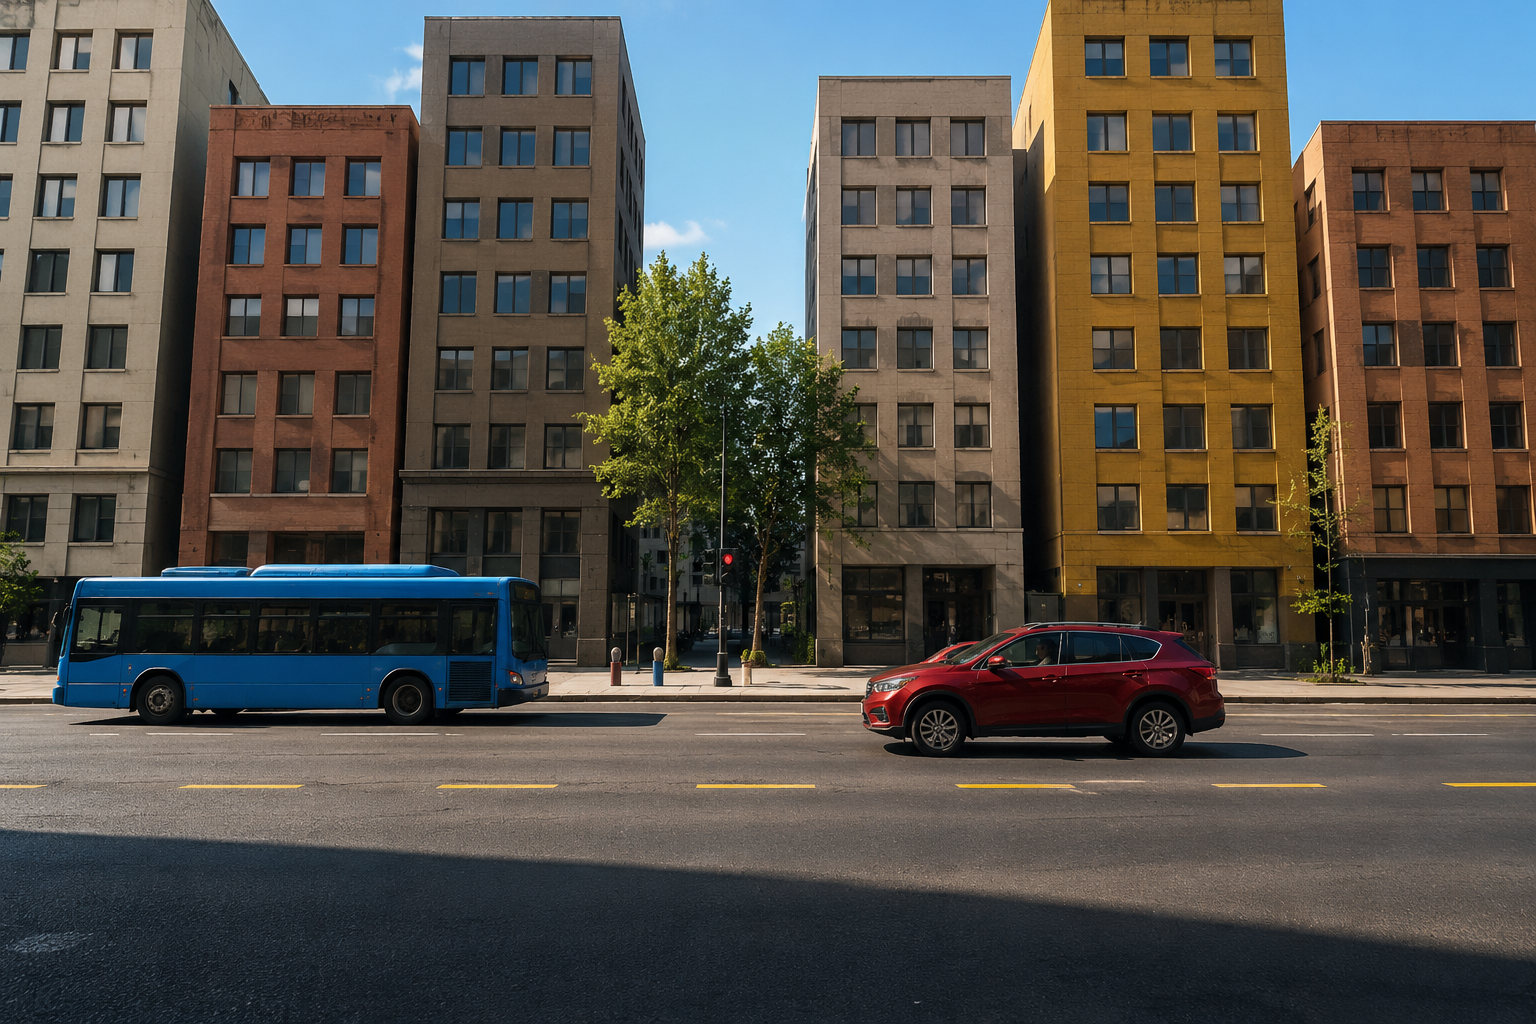
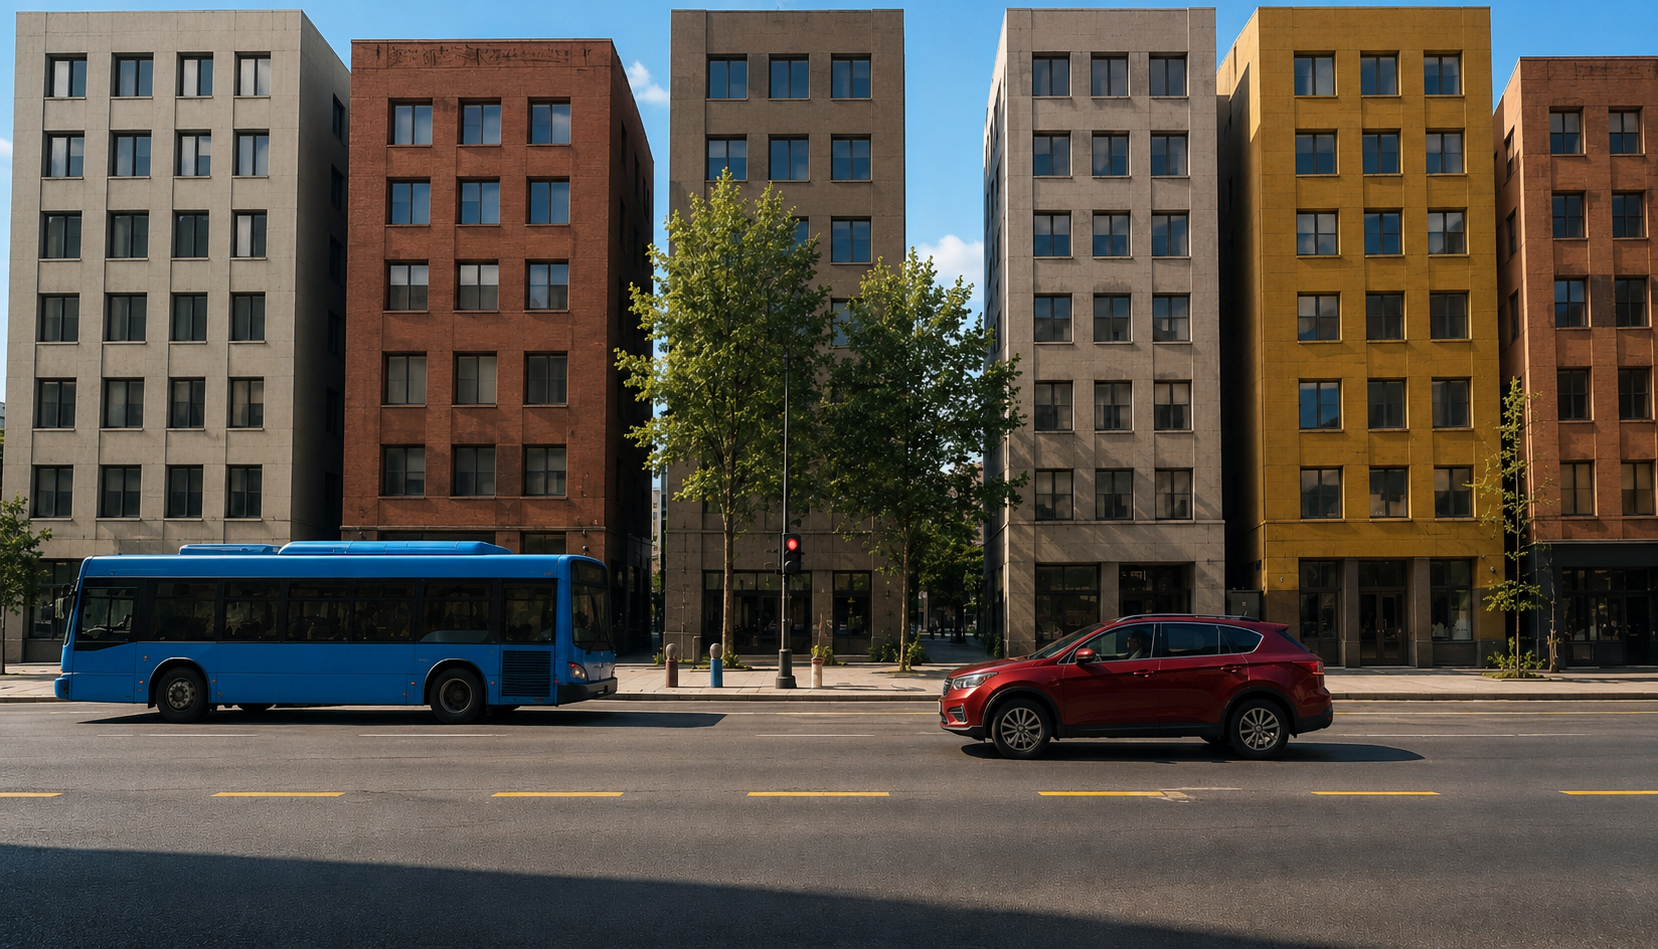
Adjust visual recognition detection boxes and update street scene image

diff --git a/src/sections/multimodal/ImageDemo.tsx b/src/sections/multimodal/ImageDemo.tsx
@@ -5,17 +5,15 @@ import { Play, CheckCircle } from 'lucide-react';
 type Phase = 'idle' | 'scanning' | 'detecting' | 'done';
 
 const detections = [
-  { label: '公交车', x: 3, y: 50, w: 28, h: 20 },
-  { label: '轿车', x: 54, y: 46, w: 20, h: 18 },
-  { label: '公寓楼', x: 0, y: 0, w: 15, h: 50 },
-  { label: '公寓楼', x: 15, y: 0, w: 12, h: 50 },
-  { label: '公寓楼', x: 27, y: 0, w: 13, h: 50 },
-  { label: '公寓楼', x: 40, y: 0, w: 12, h: 50 },
-  { label: '公寓楼', x: 52, y: 0, w: 13, h: 50 },
-  { label: '公寓楼', x: 65, y: 0, w: 12, h: 50 },
-  { label: '公寓楼', x: 77, y: 0, w: 23, h: 50 },
-  { label: '道路', x: 0, y: 62, w: 100, h: 38 },
-  { label: '人行道', x: 0, y: 46, w: 100, h: 16 },
+  { label: '公交车', x: 3, y: 55, w: 35, h: 20 },
+  { label: '轿车', x: 57, y: 60, w: 26, h: 18 },
+  { label: '公寓楼', x: 0, y: 0, w: 18, h: 70 },
+  { label: '公寓楼', x: 20, y: 0, w: 15, h: 70 },
+  { label: '公寓楼', x: 42, y: 0, w: 13, h: 70 },
+  { label: '公寓楼', x: 63, y: 0, w: 13, h: 70 },
+  { label: '公寓楼', x: 77, y: 0, w: 12, h: 70 },
+  { label: '公寓楼', x: 90, y: 0, w: 23, h: 70 },
+  { label: '道路', x: 0, y: 70, w: 100, h: 30 },
 ];
 
 export default function ImageDemo() {